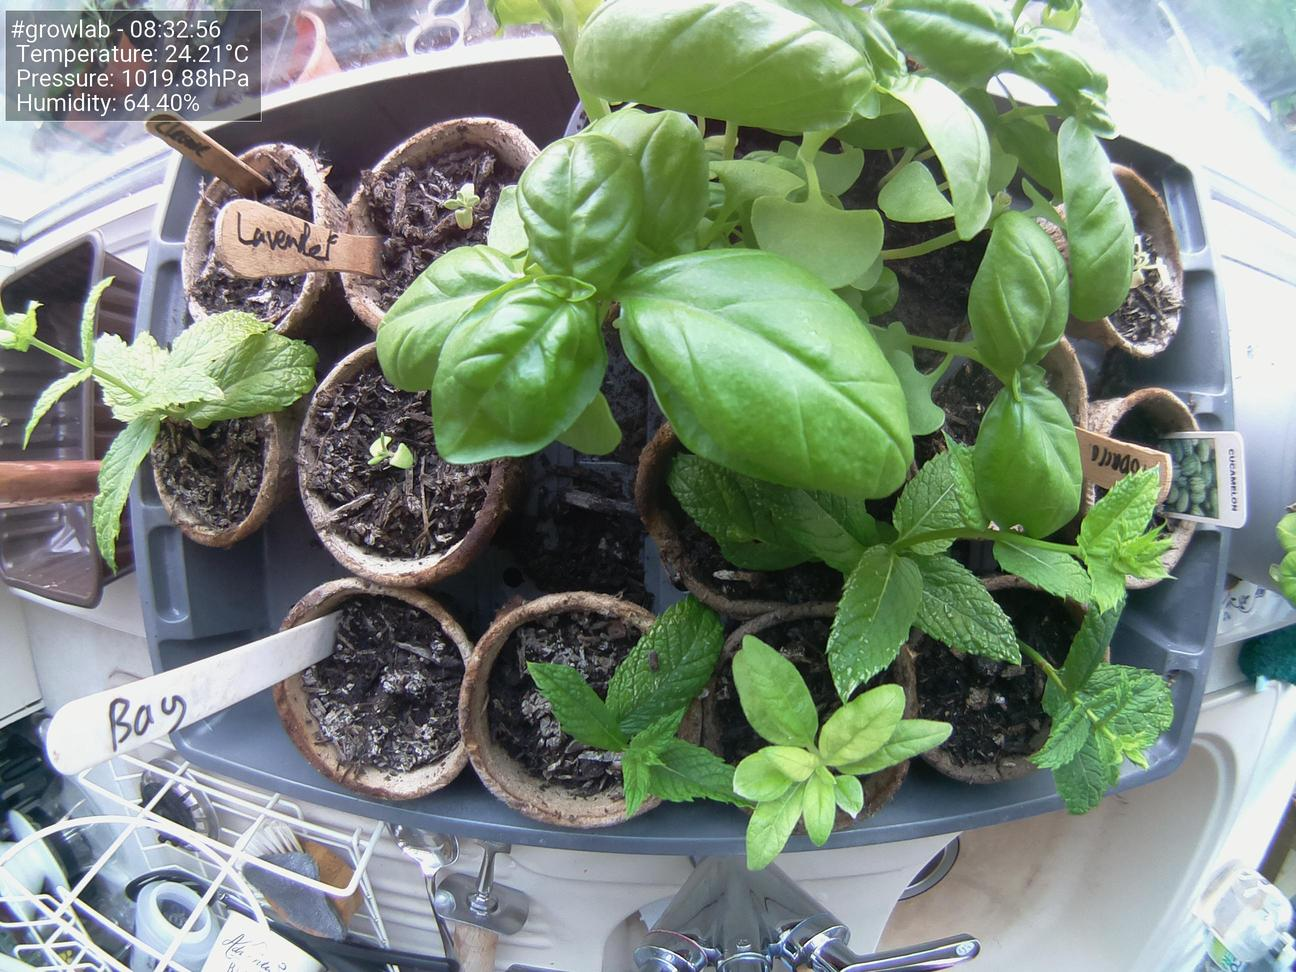
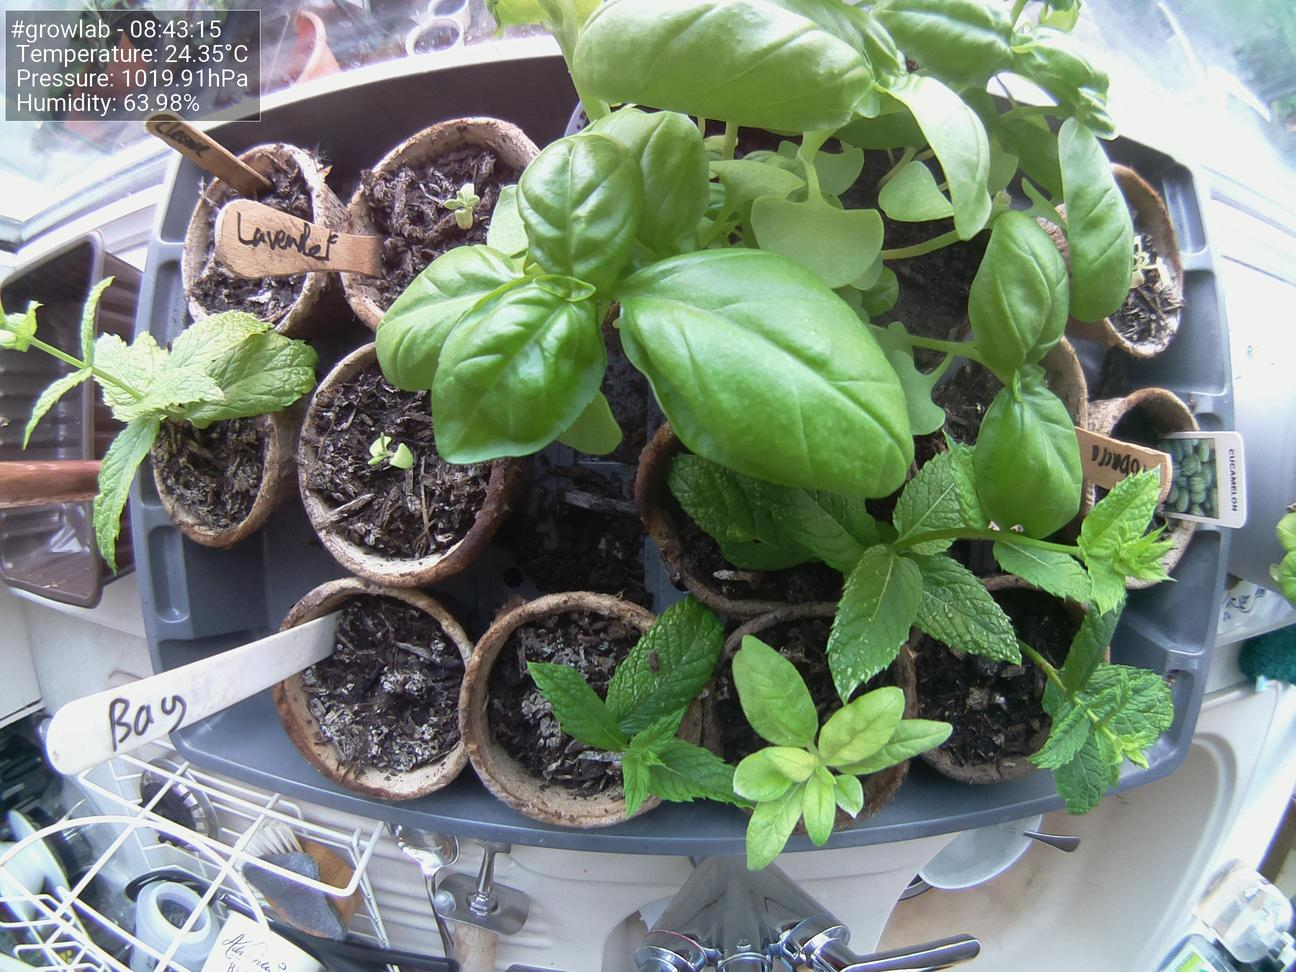
Update images at Tue 20 Jul 08:43:24 BST 2021

diff --git a/docs/index.html b/docs/index.html
@@ -47,19 +47,19 @@
                         <tbody>
                             <tr>
                                 <td>Time</td>
-                                <td>08:32:56</td>
+                                <td>08:43:15</td>
                             </tr>
                             <tr>
                                 <td>Temperature</td>
-                                <td>24.21°C</td>
+                                <td>24.35°C</td>
                             </tr>
                             <tr>
                                 <td>Humidity</td>
-                                <td>64.40%</td>
+                                <td>63.98%</td>
                             </tr>
                             <tr>
                                 <td>Pressure</td>
-                                <td>1019.88hPa</td>
+                                <td>1019.91hPa</td>
                             </tr>
                         </tbody>
                     </table>
@@ -67,7 +67,7 @@
 
                 <h5>Latest image</h5>
                 <div style="width: 85%;">
-                            <img class="figure-img img-fluid rounded" src="./preview.jpg?uid=1626766384.941461">
+                            <img class="figure-img img-fluid rounded" src="./preview.jpg?uid=1626767003.8879097">
                 </div>
             </div>
         </div>
